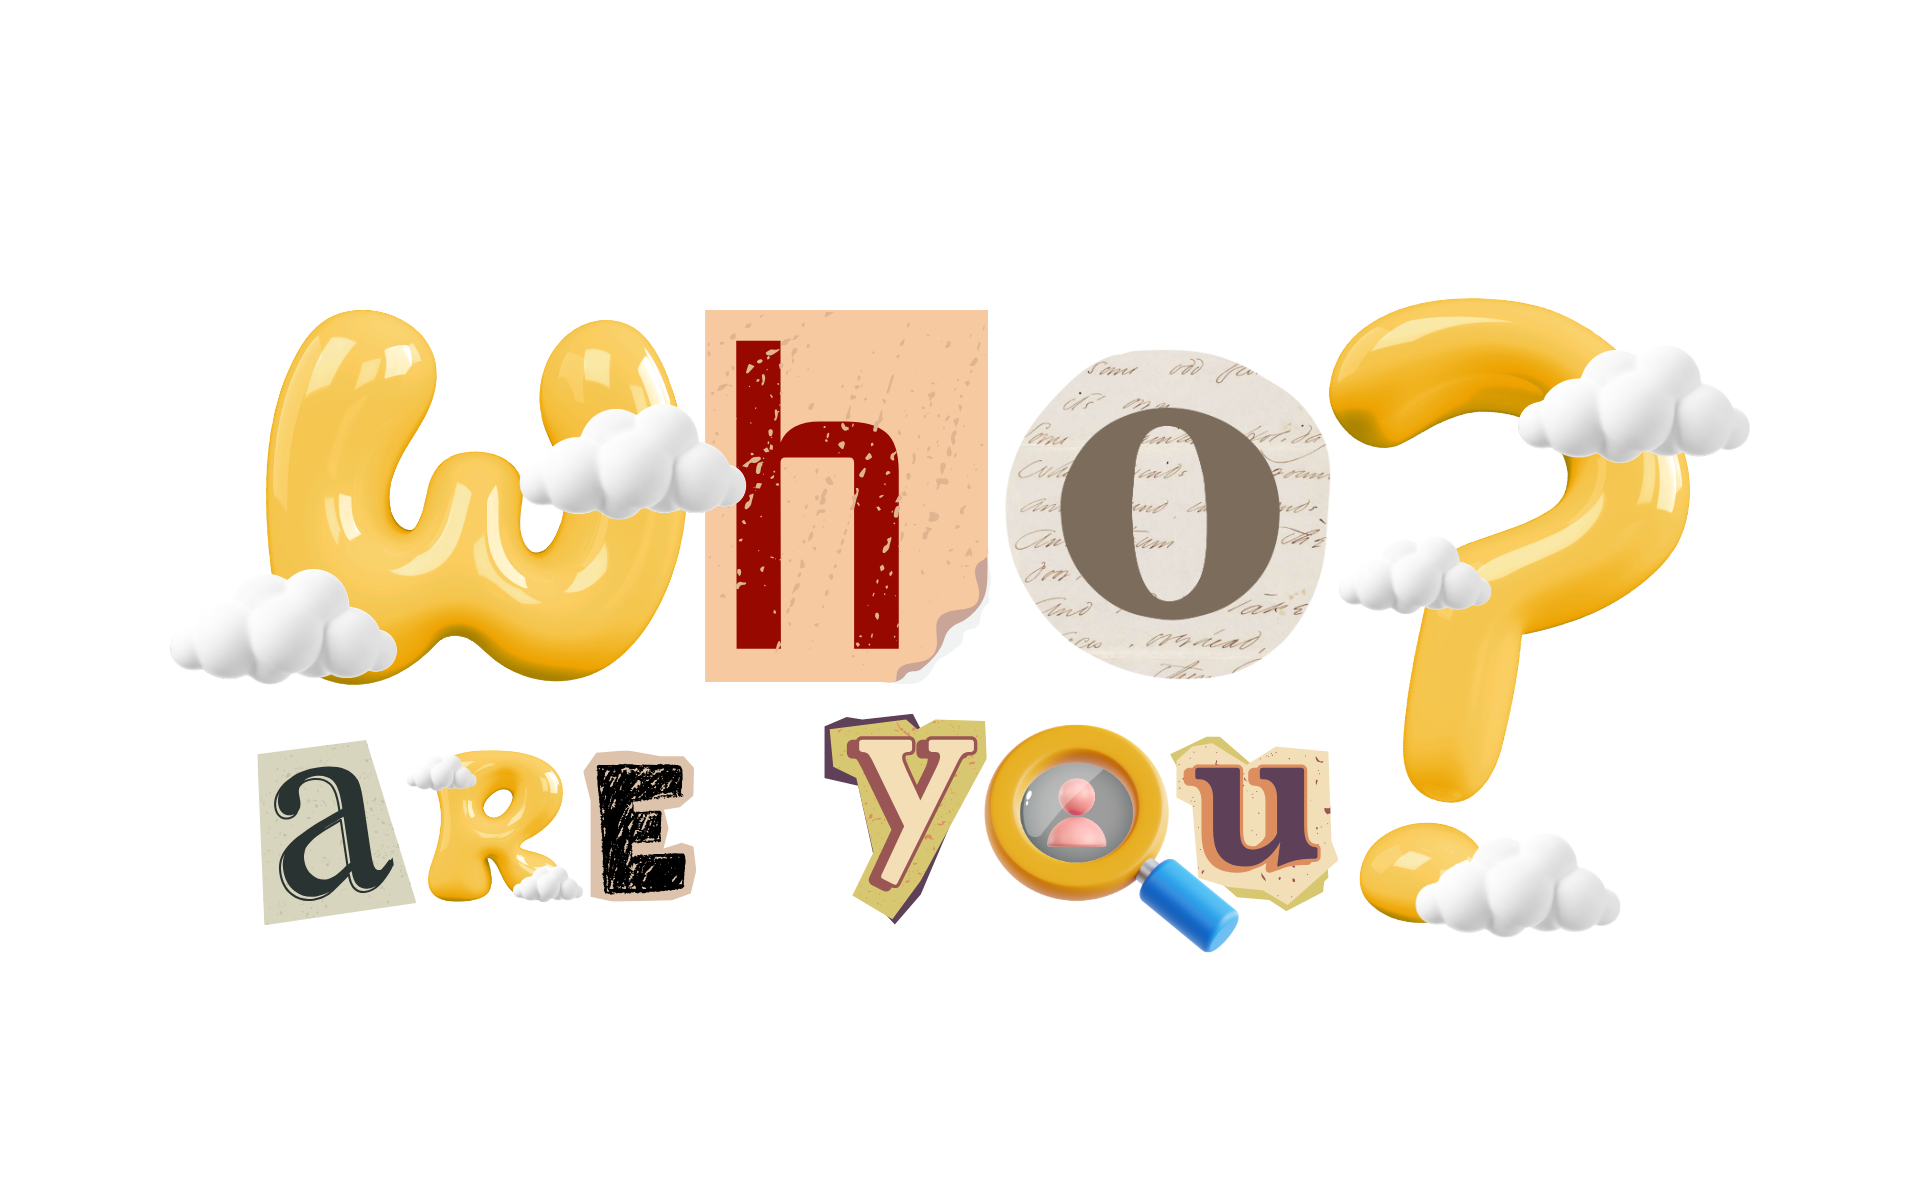
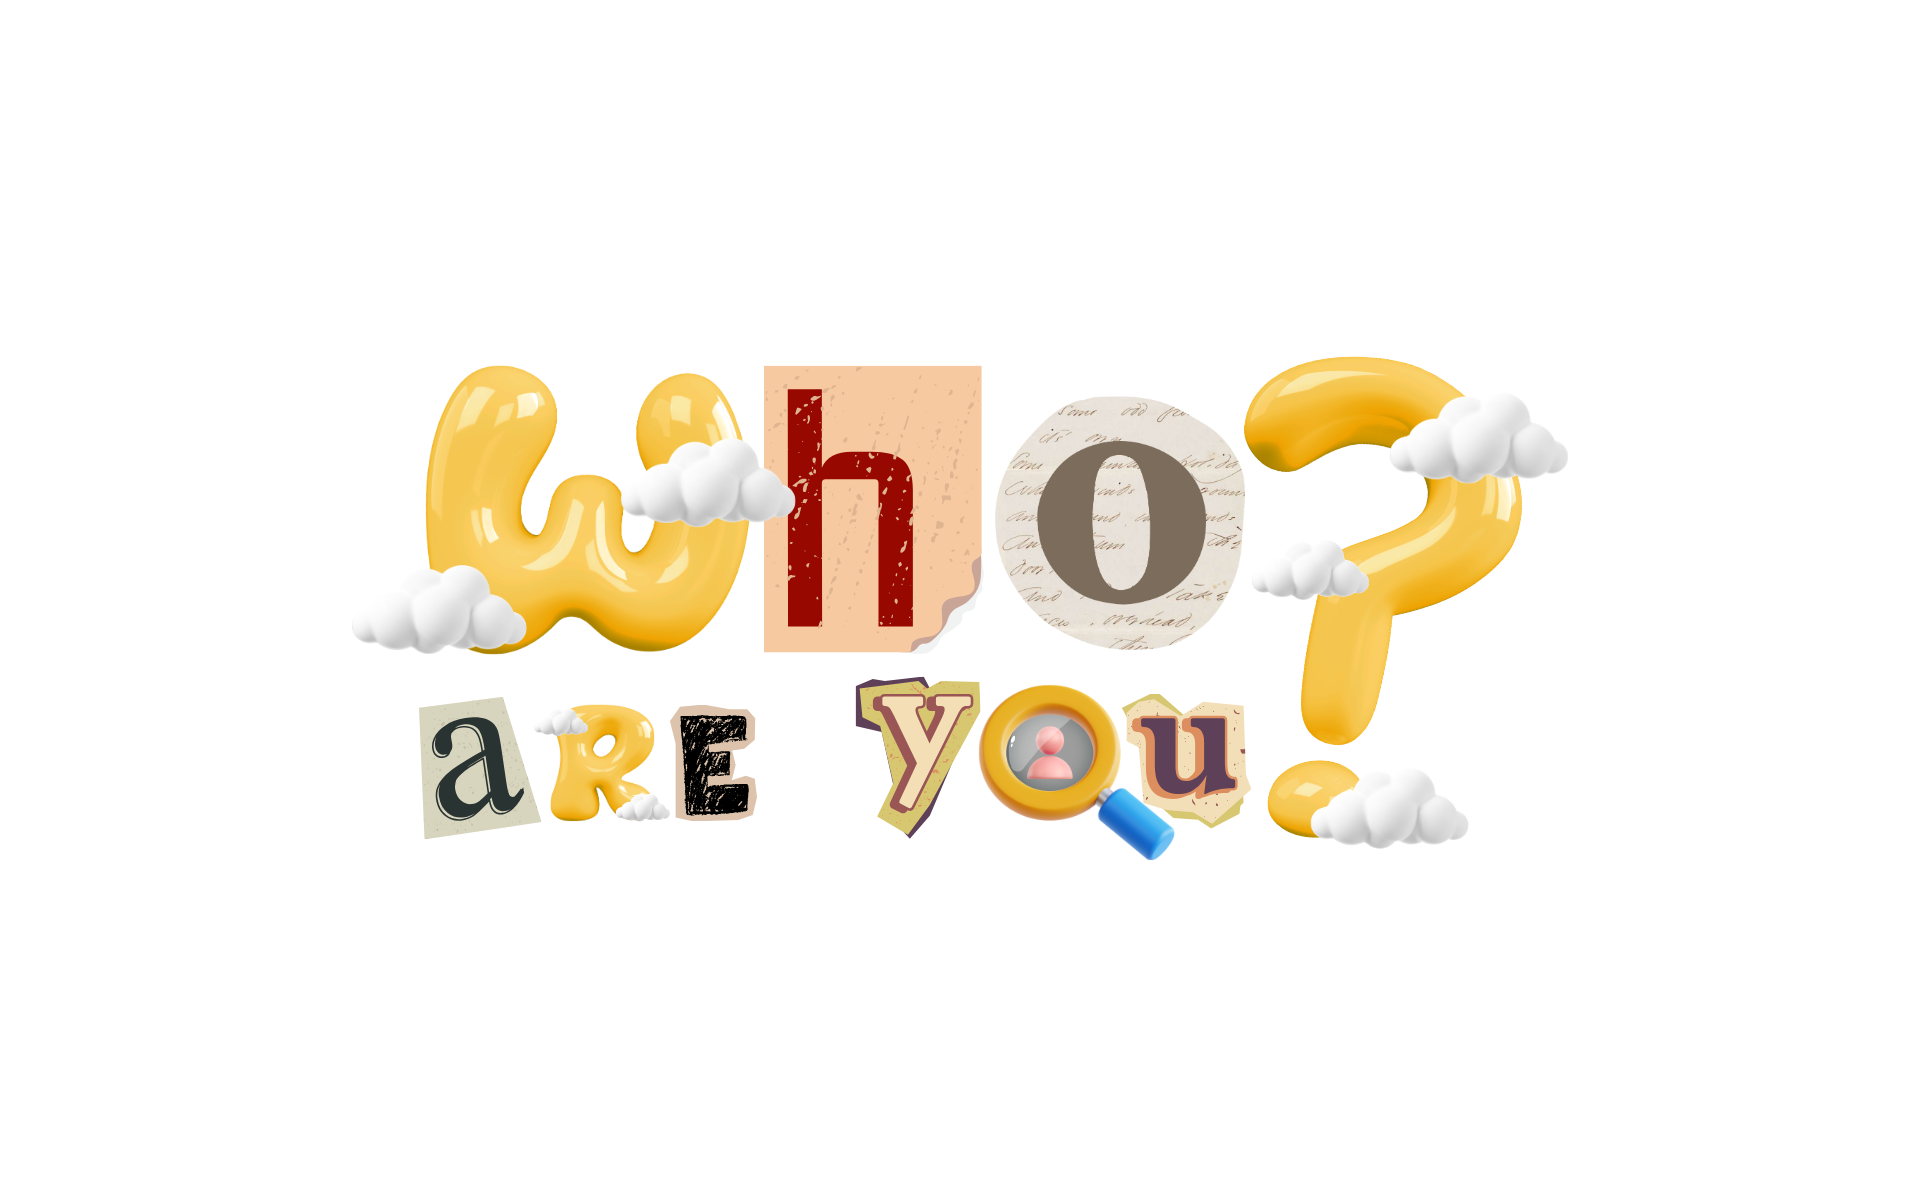
revised cover of impostor-game

Changed region(s): [[0.0938, 0.2467, 0.9062, 0.8017]]

diff --git a/src/data/projects.ts b/src/data/projects.ts
@@ -117,7 +117,7 @@ export const projects: Project[] = [
     status: "DEPLOYED",
     description: "A responsive, browser-based social deduction party game where players must uncover a hidden impostor using secret word clues.",
     tech: ["React 18", "Vite", "JavaScript", "CSS"],
-    links: {live: "word-impostor-gamebykiel.vercel.app"},
+    links: {live: "https://word-impostor-gamebykiel.vercel.app/"},
     caseStudy: {
       problem: "Players lack a quick-to-launch, visually stunning digital party game for group settings that avoids cumbersome physical setups and clunky user interfaces",
       solution: "Developed a dynamic, component-driven web application featuring automated game phases, real-time role reveals, voting mechanics, and an Apple-inspired glassmorphism design.",
